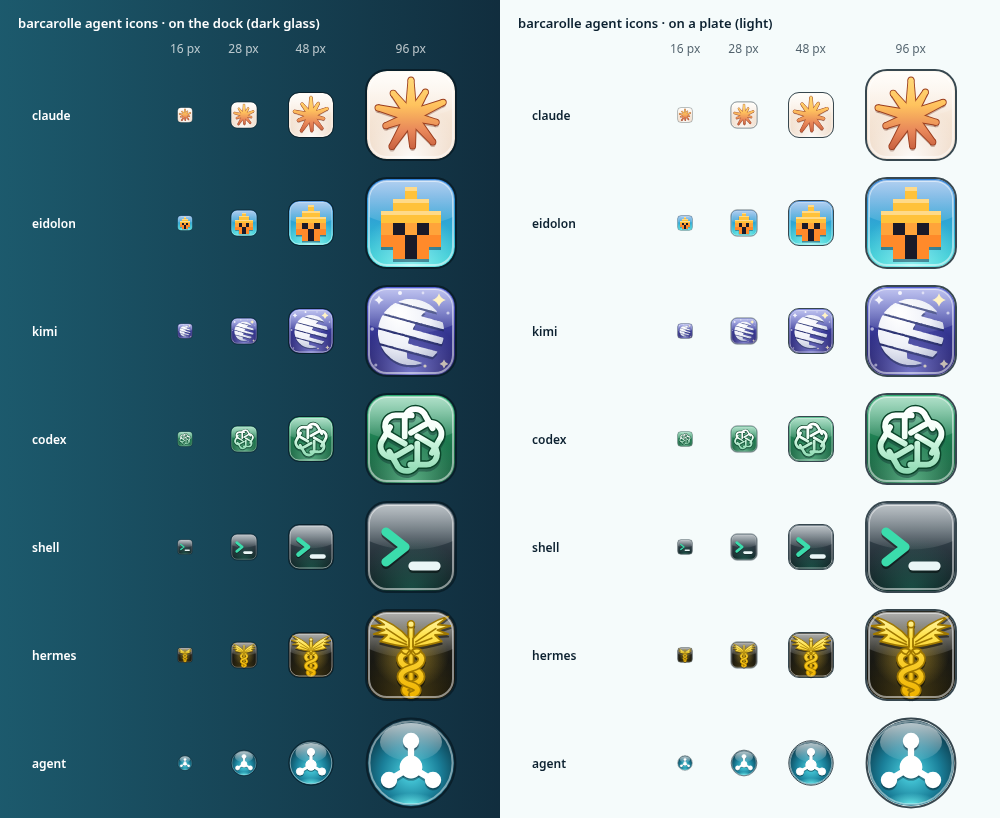
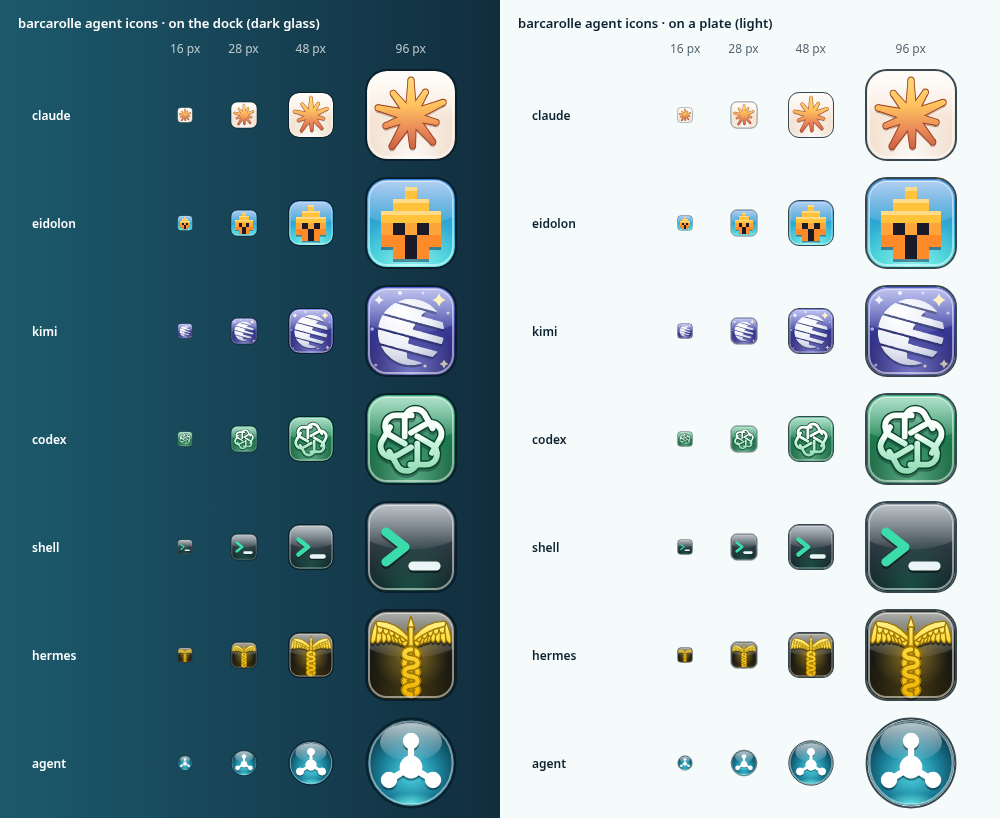
barcarolle: hermes caduceus takes heraldic wings and headless braided serpents

diff --git a/song/songbook/barcarolle/design/intent.md b/song/songbook/barcarolle/design/intent.md
@@ -114,14 +114,14 @@ and agent are original.
 | kimi | Moonshot AI's mark, traced with potrace from the user's reference (it resembles a piano and its keys): a round disc cut by four thin parallel gaps that fall gently to the right; on the right half each gap widens into a dark notch, a black key, whose left end steps in at a staggered point (the top step slanted, the lower ones near-vertical), so the white bands read as keys; the outline stays round all the way, the keys end at the circle's edge; the gaps are cut through to the tile; a sparse starfield around: three 4-point twinkles and a scatter of dots of uneven size and brightness | indigo `#5560d6` → night `#170f52` | white → `#eef0f8` → `#b9bfd6` with a soft highlight; stars pale gold `#fff3c4` and white |
 | codex | the OpenAI blossom, six rounded links around a hexagonal eye, in glossy glass | green `#2fae72` → `#0c4a2e` | white → `#f0fff6`, hard stop, `#cdf5df` → `#93dcb6`, rim `#0a4429` |
 | shell | the `>_` prompt | graphite `#4e5f6b` → `#0b1419` | base0B `>`, plate-white `_` |
-| hermes | Hermes Agent's CLI emblem, a caduceus: a staff with a small round finial; two long tapering wings attached below the top, sweeping up and out in a shallow V above the finial, each fanning four pointed primary feathers at the tip with clear notches and two quill lines; two serpents coiling down the staff, their small heads facing each other just under the wings; a warm glow behind | near-black `#2a2a22` → `#0b0b08` | gold `#fff6a8` → `#ffe14a` → `#f0b400`, outline and quill lines `#a07800` |
+| hermes | Hermes Agent's CLI emblem, a caduceus: a staff with a small pointed tip; two heraldic bird wings spreading mostly level and lifting slightly at the tips, each with an arched leading edge over three overlapping rows of rounded-pointed feathers (coverts, secondaries, then the longest primaries at the outer end), a darker gold line between rows; two headless serpents braided down the staff, tapering into it under the wings and at the foot; a warm glow behind | near-black `#2a2a22` → `#0b0b08` | gold `#fff6a8` → `#ffe14a` → `#f0b400`, outline and row lines `#a07800` |
 | agent | a glass orb holding a node and three satellites | base0C `#4fd8e6` → `#0a3242` | white |
 
 claude's golden spark sits on a cream tile: on a gold tile the rays sink
 into the ground at 16px, on cream they hold. kimi sits on indigo so its tile
 never reads as eidolon's blue at 16px; at 16px the disc keeps two or three
 of its black-key notches and only the brightest star survives. At 16px hermes reads as a
-gold winged staff and the coils simplify to bumps; its dark tile keeps the
+gold winged staff and the braid simplifies to a ribbed column; its dark tile keeps the
 gold apart from claude's spark on cream. An unknown kind takes `agent`.
 Gradient ids are prefixed with the kind, so all seven inline together
 without collision.
